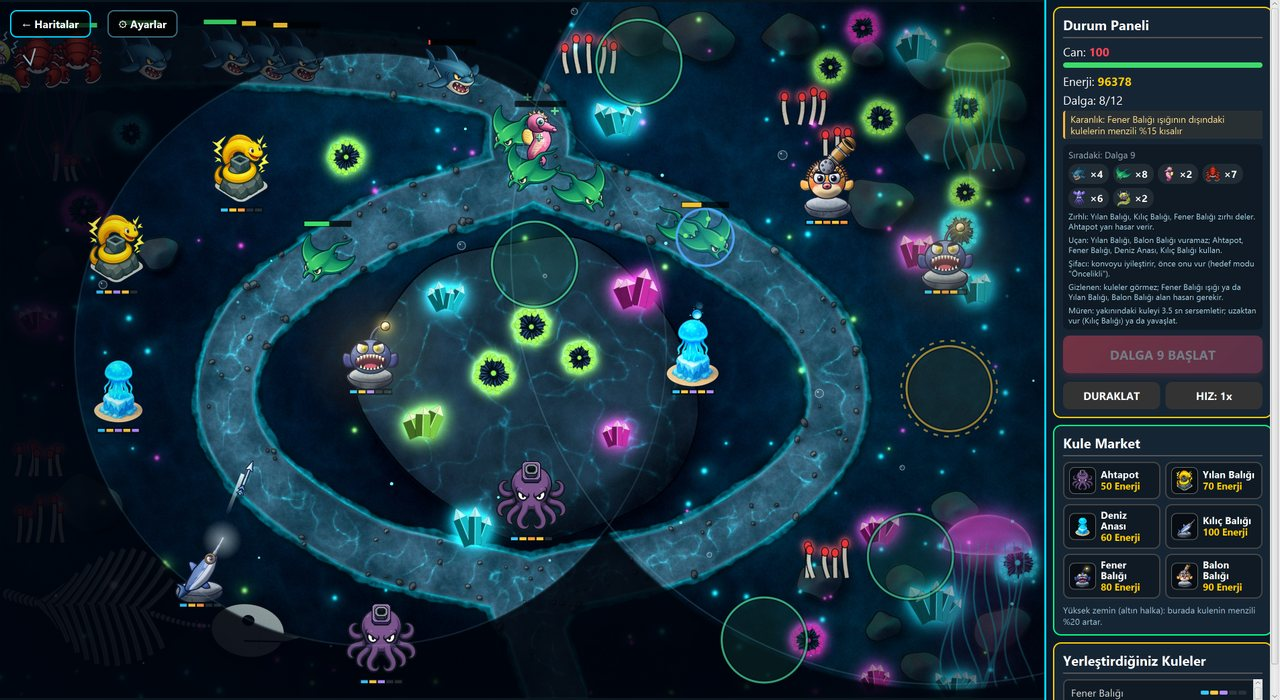
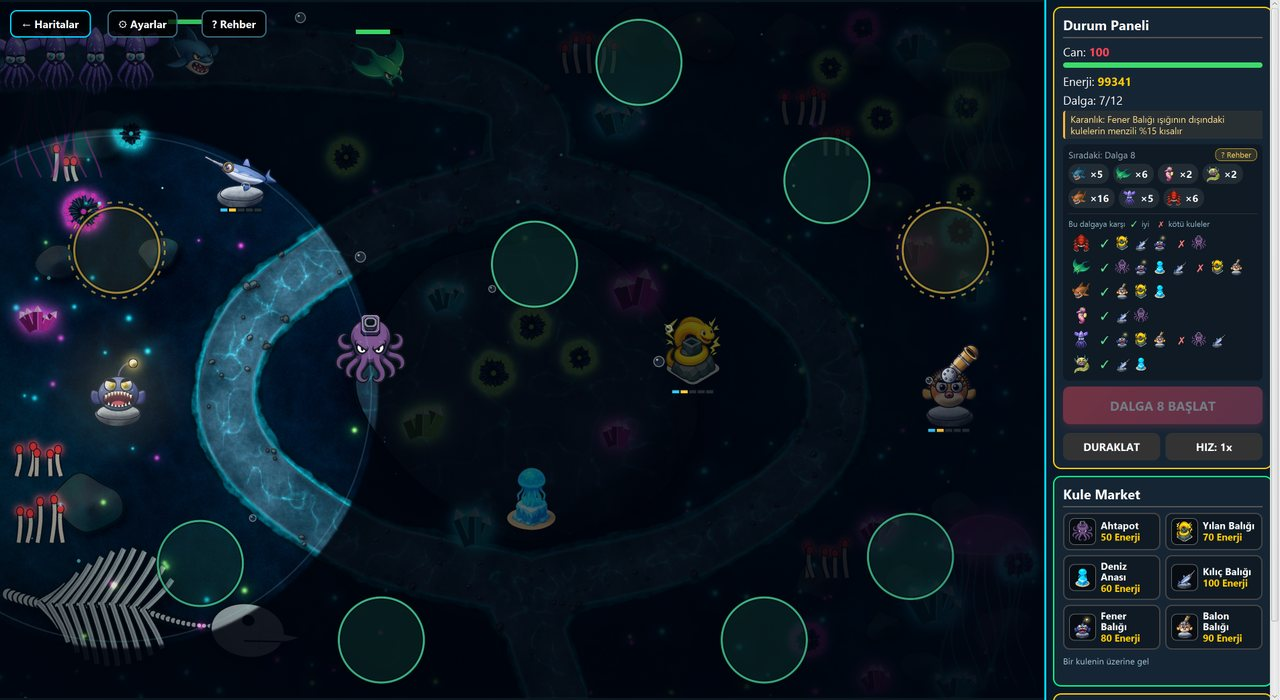
readme guncellendi

diff --git a/README.md b/README.md
@@ -8,6 +8,20 @@ Derin Çukur haritasından bir kare: Fener Balıkları karanlığı aydınlatıy
 
 ![Oynanış](docs/oynanis.jpg)
 
+## Rehber
+
+Menüdeki **Rehber** düğmesi (oyun içinde sol üstteki **? Rehber**, sağ paneldeki **? Rehber** ve düşman/ipucu simgeleri) canlı gösterimli bir yardım ekranı açar. Gösterimler gerçek oyun kurallarıyla çalışır: küçük bir sahnede seçtiğin kule, seçtiğin seviye ve yetenekle düşmanlara ateş eder.
+
+- **Kuleler:** her kule için güçlü ve zayıf olduğu yerler, istatistikler, seviye düğmeleri ve 4 yetenek. Bir yeteneğe tıklayınca gösterimde o seviye ve o yetenekle kule çalışır (zincir şoku, gaz bulutu, kritik vuruş, ışık ağı...)
+- **Düşmanlar:** 4 temel tür, 4 özel tür ve 4 patron; kalkanın kırılması, şifacının iyileştirmesi, kalamarın gizlenmesi, mürenin kule sersemletmesi, patronun kuleyi yemesi canlı izlenir. Her sayfada o düşmana karşı iyi (✓) ve kötü (✗) kuleler gösterilir
+- **Haritalar:** 9 haritanın her biri için kuralın ayrıntılı anlatımı (sayılarıyla), kullanılabilen kuleler, patron ve özel düşmanlar; kuralın kendi gösterimi (lav, fırtına, girdap, koruyucu küreler, hazine, karanlık, sarmaşık)
+- **Kurallar:** yüksek zemin (menzil halkalarıyla), zırh ve delme, yavaşlatma eşleşmesi, alışma (hasar payı grafiğiyle), patronlar ve zorluk tablosu
+- Sağ paneldeki **dalga ipuçları** da bununla bağlantılı: sıradaki dalgadaki her düşman türü için hangi kuleler iyi (✓) ve hangileri kötü (✗) simgelerle gösterilir; simgeye tıklayınca Rehber ilgili düşman sayfasında açılır. Oyun içinden açılınca oyun duraklar, kapatınca devam eder
+
+![Rehber: kuleler](docs/rehber-kule.jpg)
+
+![Rehber: haritalar](docs/rehber-harita.jpg)
+
 ## Oynanış
 
 - **9 harita**, her birinin yolu, atmosferi ve özel kuralı farklı (aşağıdaki tabloya bak). Her haritada 15-25 kule yeri vardır; hepsi yola yetişir (yol kıvrımlarının iç tarafları dahil) ve harita boyunca dengeli dağılır. Yola yakın yerler kısa menzilli kulelere uyar, biraz daha uzak yüksek (altın halkalı) yerlerin menzili %20 artar
@@ -24,7 +38,7 @@ Derin Çukur haritasından bir kare: Fener Balıkları karanlığı aydınlatıy
   - **Şifacı Denizatı** (5. dalgadan): yakınındaki düşmanları iyileştirir. Konvoyun ortasında yürür; önce onu vurmak gerekir
   - **Elektrikli Müren** (6. dalgadan): yakınındaki kuleyi uyarı verdikten sonra 3,5 sn sersemletir. Dalganın son üçte birinde gelir, uzaktan vurulur ya da yavaşlatılır
 - Kule başına 5 seviye vardır. **3. ve 5. seviyeye çıkarken iki yetenekten birini seçersin** (6 kule x 4 seçim = 24 yetenek, aşağıda). Seviye ve güç değerleri sayı yerine çubukla gösterilir: mavi mevcut değer, sarı yükseltmeyle gelecek kazanç, turuncu ve mor dilimler seçtiğin yetenek
-- Kule fiyatları birbirine yakındır: Ahtapot 50, Deniz Anası 60, Yılan Balığı 70, Fener Balığı 80, Balon Balığı 90, Kılıç Balığı 100. Fiyat kolay ve normalde sabit kalır, yalnızca zorda aynı türden her yeni kule %6 pahalanır. Başlangıç enerjisi yuvarlak sayıdır: kolay 300, normal 250, zor 200 (Derin Çukur'da 50 fazla)
+- Kule fiyatları birbirine yakındır: Ahtapot 50, Deniz Anası 60, Yılan Balığı 70, Fener Balığı 80, Balon Balığı 90, Kılıç Balığı 100. Fiyat kolay ve normalde sabit kalır, yalnızca zorda aynı türden her yeni kule %5 pahalanır. Başlangıç enerjisi yuvarlak sayıdır: kolay 300, normal 250, zor 230 (Derin Çukur'da 50 fazla)
 - **Yarım kalan oyun kaydedilir:** haritalara dönünce ya da oyunu kapatınca durum (dalga, can, enerji, kuleler, ekrandaki düşmanlar) kaydedilir; haritaya tekrar tıklayınca *Devam et* ya da *Yeniden başla* seçilir. Her harita için bir kayıt tutulur, oyun bitince silinir
 - Kule başına hedef önceliği: **Öncelikli** (şifacı, gizlenen ve müreni önce seçer, yoksa İlk gibi davranır) / İlk / Son / En Güçlü / En Yakın
 - Dalga bonusu, sıradaki dalga önizlemesi, duraklat, **0,5x / 1x / 2x** hız
@@ -55,9 +69,14 @@ Kuleleri rastgele dizip parayı bitirmek kazandırmaz; botlarla yapılan denge t
 - **Eşleşme:** Deniz Anası ile yavaşlatılan düşman her kuleden %20 fazla hasar alır
 - **Yer seçimi:** menzil ve yer birlikte düşünülür. Altın halkalı yüksek zeminde menzil %20 artar ama bu yerler yola uzaktır
 - **Özel düşmanlar:** zehir ve gaz kalkanı deler (Deniz Anası B, Balon Balığı 5. seviye A); alan hasarı ve Fener Balığı ışığı gizlenenleri ortaya çıkarır; şifacıyı "Öncelikli" modla önce vur; müreni uzaktan (Kılıç Balığı) ya da yavaşlatarak karşıla. İlk göründüklerinde ekranda kısa bir bilgi çıkar
+- **Patron evreleri:** büyük patronun canı %70, %40 ve %15'e inince (ara patronda %60'a inince) patron maksimum canının %12'si kadar **kalkan** kazanır, 4 sn hızlanır ve sersemletilemez. Patron çubuğunda bu eşikler çizgi olarak görünür. Böylece tek bir güçlü kuleyle (ör. 3. seviye Kılıç Balığı) patron yolun başında eritilemez
 - **Patron kuleyi yer:** patron zaman zaman yakınındaki en yüksek seviyeli kuleye yönelir, önce çenesini açar (kırmızı çene ve çizgi görünür), sonra kuleyi **yutar**. Yutulan kule yok olur, para iadesi yoktur. Patron saldırı sırasında ölürse kule yenmez. Patron gelirken ekranda uyarı, can çubuğu ve kalp atışı sesi vardır
 
 ![Patron kuleyi yiyor](docs/patron-yutma.jpg)
+
+Canı bir eşikten inen patron kalkan kazanıp öfkelenir (kızıl hale, hız çizgileri, mavi kalkan çubuğu):
+
+![Patron öfkesi](docs/patron-evre.jpg)
 
 ### Zorluk
 
@@ -65,13 +84,13 @@ Zorluk seçimi harita ekranında, altında neyin değiştiği yazar:
 
 | | Kolay | Normal | Zor |
 |---|---|---|---|
-| Düşman canı | -%10 | standart | +%6 |
-| Düşman hızı | -%3 | standart | +%3 |
-| Başlangıç enerjisi | 300 | 250 | 200 |
-| Aynı türden kule fiyatı | sabit | sabit | her kule +%6 |
-| Öldürme ödülü | +%8 | standart | -%3 |
-| Dalga bonusu | +%15 | standart | -%5 |
-| Üs canı | 120 | 100 | 90 |
+| Düşman canı | -%10 | standart | +%3 |
+| Düşman hızı | -%3 | standart | +%1,5 |
+| Başlangıç enerjisi | 300 | 250 | 230 |
+| Aynı türden kule fiyatı | sabit | sabit | her kule +%5 |
+| Öldürme ödülü | +%8 | standart | -%2 |
+| Dalga bonusu | +%15 | standart | -%3 |
+| Üs canı | 120 | 100 | 95 |
 | Satış iadesi | %60 | %50 | %45 |
 
 Her haritanın düşman canı (`hpScale`) `node tools/balans.js` ile ayrı ayrı ayarlanmıştır: normal zorlukta düzenli dizilen bir oyuncu kazanır, rastgele dizen kaybeder.
@@ -106,17 +125,19 @@ Ana menüden ya da oyun içindeki **Ayarlar** düğmesinden: efekt sesi, müzik 
 
 ### Akıcılık (FPS)
 
-JavaFX `WebView`'ın kendi `requestAnimationFrame` döngüsü 60 FPS'e kilitlidir. Bu yüzden kareleri Java tarafındaki `AnimationTimer` sürer (`window.javaFrame`), hedef FPS ayarı da bunun üzerinde uygulanır. Asıl yük tuval çizimindeydi ve şunlarla azaltıldı: sprite'lar çizileceği boyuta bir kez küçültülüp önbelleğe alınır (500 piksellik resmi her karede küçültmek kare başına ~0,6 ms tutuyordu), karanlık haritanın gölgesi ve ışık huzmeleri arka plana bir kez pişirilir, boş kule yerleri küçük sprite olarak çizilir, ışık ağı tek katmandır, ray yolu arka plana pişirilir. Tuvalin iç çözünürlüğü ekrana göre 2700 piksele kadar çıkar (arka planlar 2700x1800'dür); Mercan Kanalı'nın eski 1536 piksellik arka planı da aynı boyuta büyütülüp keskinleştirildi. Sınırsız FPS'te, 12 yükseltilmiş kule ve çalışan bir dalga ile gerçek uygulamada (tam ekran) ölçülen değerler haritalara göre yaklaşık 150-350 FPS'tir; Mercan Kanalı'nın kesikli ray yolu da her karede çizilmek yerine arka plana pişirilince en yavaş harita olmaktan çıktı. Varsayılan 120 sınırı tüm haritalarda tutuyor. Ayarlardan FPS sayacını açıp kendi bilgisayarınızda görebilirsiniz.
+JavaFX `WebView`'ın kendi `requestAnimationFrame` döngüsü 60 FPS'e kilitlidir. Bu yüzden kareleri Java tarafındaki `AnimationTimer` sürer (`window.javaFrame`), hedef FPS ayarı da bunun üzerinde uygulanır. Asıl yük tuval çizimindeydi ve şunlarla azaltıldı: sprite'lar çizileceği boyuta bir kez küçültülüp önbelleğe alınır (500 piksellik resmi her karede küçültmek kare başına ~0,6 ms tutuyordu), karanlık haritanın gölgesi ve ışık huzmeleri arka plana bir kez pişirilir, boş kule yerleri küçük sprite olarak çizilir, ışık ağı tek katmandır, ray yolu arka plana pişirilir. Tuvalin iç çözünürlüğü ekrana göre 2700 piksele kadar çıkar (arka planlar 2700x1800'dür); Mercan Kanalı'nın eski 1536 piksellik arka planı da aynı boyuta büyütülüp keskinleştirildi. Sınırsız FPS'te, 12 yükseltilmiş kule ve çalışan bir dalga ile gerçek uygulamada (tam ekran) ölçülen değerler haritalara göre yaklaşık 150-350 FPS'tir; Mercan Kanalı'nın kesikli ray yolu da her karede çizilmek yerine arka plana pişirilince en yavaş harita olmaktan çıktı. Bu WebView'ın en ağır tuzağı **geniş alana yayılan tek bir çizim yolu**dur (ör. ekranın her yerine dağılmış 90 kar çizgisini tek `stroke()` ile çizmek, ışık sınırında büyük bir halka çizmek): her karede tuvalin tamamı kadar maske üretiliyor ve FPS yarıya düşüyor. Bu yüzden kar çizgileri, kıvılcımlar, duman, buz kristalleri, seviye çubukları ve hasar yazıları küçük sprite olarak (`drawImage`) basılır, buzlanma kenarlığı tuvalin gerçek piksel boyutunda bir kez çizilip 1:1 kopyalanır. Böylece en ağır sahnelerde (9. dalga, 12 yükseltilmiş kule, sürekli lav patlaması ya da kar fırtınası) bile 110-130 FPS, normal sahnelerde 150-180 FPS alınır (bu bilgisayarda; sınırsız FPS ayarıyla ölçüldü). Varsayılan 120 sınırı tüm haritalarda neredeyse hep tutuyor. Ayarlardan FPS sayacını açıp kendi bilgisayarınızda görebilirsiniz.
 
 ## Müzik
 
-Müzik de kodla üretilir (`MusicEngine.java`, ses dosyası yok): 98 BPM, La minör, 39 saniyelik kusursuz döngü, aynı akor dizisi üzerinde yedi katman. Durum oyunun gidişatına göre değişir ve katmanlar yaklaşık bir saniyede yumuşakça karışır:
+Müzik de kodla üretilir (`MusicEngine.java`, ses dosyası yok): 98 BPM, La minör, 39 saniyelik kusursuz döngü, aynı akor dizisi üzerinde dokuz katman. Durum oyunun gidişatına göre değişir ve katmanlar yaklaşık bir saniyede yumuşakça karışır:
 
 | Durum | Ne zaman | Çalan katmanlar |
 |---|---|---|
 | Menü / sakin | menü, harita seçimi, dalga arası, duraklatma | geniş ped, yumuşak çan arpeji, hafif bas |
-| Savaş | dalga sürerken | bas, bas davul, tıkırtılar; dalga ve tehlike arttıkça davul yükselir, 55%+ yoğunlukta hızlı arpej girer |
+| Savaş | dalga sürerken | pad ve çan geri çekilir; dişli bas, bas davul, tıkırtılar, eksik vuruşlara düşen parlak akor vuruşları (stab) ve sekizlik testere dişi arpej girer; dalga ve tehlike arttıkça yükselir, %55+ yoğunlukta hızlı arpej eklenir |
 | Patron | büyük patron ekranda | tam bas ve davul, hızlı onaltılık arpej (Geometry Dash tadı), alçak uğultu ve kalp atışı; patron yaklaştıkça ve can azaldıkça sertleşir |
+
+Katman düzeyleri tepe değerine göre değil, **laptop hoparlörlerinin çalabildiği 250-5000 Hz bandındaki ses gücüne** göre ayarlanır: ilk sürümde savaşın tüm ek enerjisi 150 Hz'in altındaydı (bas ve davul) ve küçük hoparlörlerde sakin müzikten ayırt edilemiyordu. Şimdi bu bantta savaş sakin müziğin yaklaşık 1,8, patron savaşın yaklaşık 1,3 katıdır.
 
 Ayarlardan Müzik (varsayılan %40) ve Efekt sesi ayrı kısılır; sessiz mod ikisini de kapatır. Dinlemek için `java -cp target/classes com.kule.savunma.MusicEngine muzik` dört durumu WAV olarak yazar.
 
@@ -144,7 +165,7 @@ flowchart LR
 - `game.js` çizimi, efektleri, sesi ve arayüzü yönetir; `core.js`'den gelen olaylara tepki verir
 - `maps.js` yeni harita eklemek için tek yerdir (yol, kule yerleri, hangi kuleler, patron türü, zorluk, ortam efektleri)
 - Java tarafı pencereyi açar, kare döngüsünü sürer, tam ekranı ve pencere boyutunu yönetir, sesi ve müziği çalar (`SoundPlayer`, `MusicEngine`), günlüğü (`LogWriter`) ve ayar/rekor dosyasını (`SaveStore`) yazar
-- JavaFX `WebView` WebGL ve Web Audio desteklemez; bu yüzden 3B (Three.js) kullanılamıyor, çizim 2B Canvas ile yapılıyor. Ayrıca `globalCompositeOperation = 'lighter'` bu WebView'da tuvali siliyor, CSS `blur()` filtresi ise büyük pencerede sayfayı tamamen beyaz bırakıyor (`RTTexture` hatası), başlangıç noktasız `ellipse` yayları da yol çiziciyi hataya düşürüyor; bunlar kullanılmıyor ve `node tools/test_core.js` ilk ikisini denetliyor. Görsel değişikliklerden sonra mutlaka gerçek pencerede `mvn javafx:run` ile de bakın, Chrome'da çalışan her şey WebView'da çalışmaz
+- JavaFX `WebView` WebGL ve Web Audio desteklemez; bu yüzden 3B (Three.js) kullanılamıyor, çizim 2B Canvas ile yapılıyor. Ayrıca `globalCompositeOperation = 'lighter'` bu WebView'da tuvali siliyor, CSS `blur()` filtresi ise büyük pencerede sayfayı tamamen beyaz bırakıyor (`RTTexture` hatası), başlangıç noktasız `ellipse` yayları da yol çiziciyi hataya düşürüyor; bunlar kullanılmıyor ve `node tools/test_core.js` ilk ikisini denetliyor. Büyük alana yayılan tek yollar da yukarıda anlatılan nedenle kaçınılır. Görsel değişikliklerden sonra mutlaka gerçek pencerede `mvn javafx:run` ile de bakın, Chrome'da çalışan her şey WebView'da çalışmaz
 
 ## Ses
 
@@ -196,6 +217,8 @@ node tools/test_core.js              # oyun çekirdeği denetimleri
 node tools/balans.js                 # botlarla denge simülasyonu (tüm haritalar)
 node tools/balans.js cukur hard      # tek harita ve zorluk
 node tools/balans.js "" all          # üç zorluk birden
+node tools/zorluk_testi.js           # zorluk ve strateji ölçütlerini denetler (tüm haritalar, birkaç dakika)
+node tools/zorluk_testi.js hizli     # üç haritada hızlı denetim (CI)
 BOTS=rastgele,karisik SEEDS=11,23,37,41,59 node tools/balans.js yosun   # bot ve tohum seçimi
 python tools/mapgen/build.py         # harita arka planlarını ve önizlemelerini yeniden üretir
 python tools/mapgen/export_js.py --write   # yolları (ve ilk kule yerlerini) maps.js'e yazar
@@ -205,7 +228,9 @@ python tools/sprites/build.py        # kule, mermi, patron ve özel düşman spr
 python tools/sprites/logo.py         # logo ve uygulama simgesi
 ```
 
-Denge botları: `spam` her yere tek tür dizer, `rastgele` türü, yeri ve yükseltmeyi rastgele seçip parayı bitirir, `karisik` türleri sırayla kullanıp en iyi yerlere dizer, `akilli` bunu sıradaki dalganın içeriğine göre uyarlar. Amaç `spam` ve `rastgele` normal zorlukta kaybederken `karisik`ın kazanmasıdır; yeni bir harita ya da kural eklerken `hpScale` buna göre ayarlanır.
+**Zorluk denetimi** (`tools/zorluk_testi.js`): botlar her haritayı normal, kolay ve zor oynar; ölçütler tutmazsa çıkış kodu 1 olur. Ölçütler: düzenli oynayan haritayı kazanır, rastgele dizen ve tek türe yığılan kaybeder; ara patron en az yolun %40'ında, son patron en az %55'inde ölür (keskin nişancıya yatırım yapan oyuncuya karşı ara patron en az %30); kolayda ara patron en az %35 yol alır; zorda 9 haritanın en az 5'inde galibiyet mümkündür. Her haritanın patron canı `bossScale` ve `miniHp` ile ayarlanır (`maps.js`). Ayrıca `test_core.js` içinde tek bir 3. seviye Kılıç Balığı'nın ara patronu yolun başında öldürememesi sınanır.
+
+Denge botları: `spam` her yere tek tür dizer, `rastgele` türü, yeri ve yükseltmeyi rastgele seçip parayı bitirir, `keskin` ilk parayı keskin nişancıya (Kılıç Balığı) yatırıp 5. seviyeye çıkarır, `karisik` türleri sırayla kullanıp en iyi yerlere dizer, `akilli` bunu sıradaki dalganın içeriğine göre uyarlar. Amaç `spam` ve `rastgele` normal zorlukta kaybederken `karisik`ın kazanmasıdır; yeni bir harita ya da kural eklerken `hpScale` buna göre ayarlanır.
 
 `spots.py` her yeri üç kurala göre denetler: yolun eksenine en az 80 piksel uzakta olmalı, normal yer en çok 185, yüksek zemin en çok 235 piksel uzakta olabilir ve en kısa menzilli kuleyle (200 piksel) yolun en az 150 pikselini kapsamalı. Kurallara uyan elle yerleştirilmiş yerleri korur, uymayanları siler, yola yakın bölgelerde ~170 pikselden büyük boşluk kalmayacak biçimde viraj içleri gibi yolu çok kapsayan noktalara yeni yerler ekler ve arka planın en karmaşık bölgelerinden (iskelet, kristal öbeği) kaçınır. `export_js.py` kule yerlerini de yeniden yazdığı için sırayla çalıştırılmalıdır: önce `export_js.py --write`, sonra `spots.py --write`.
 
